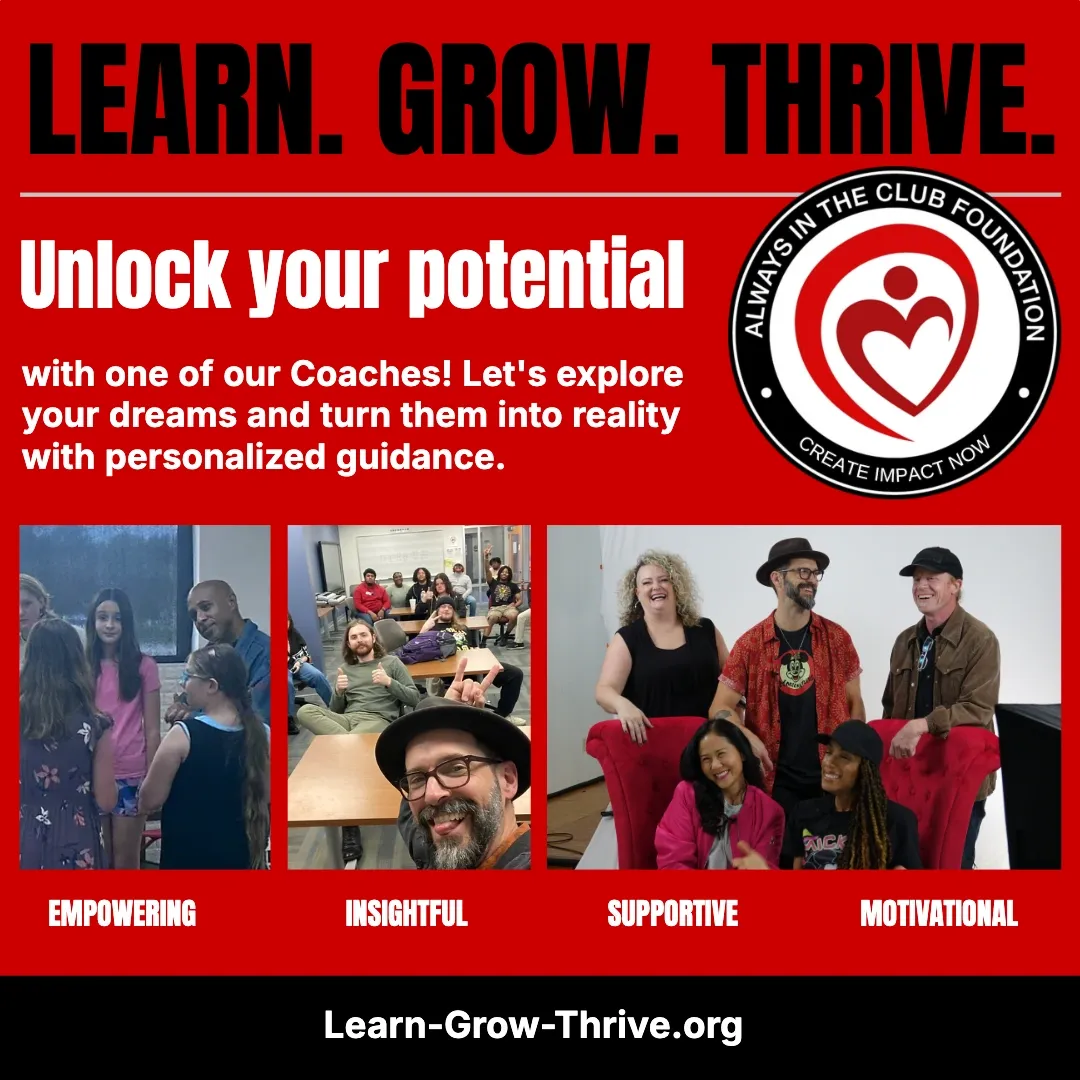
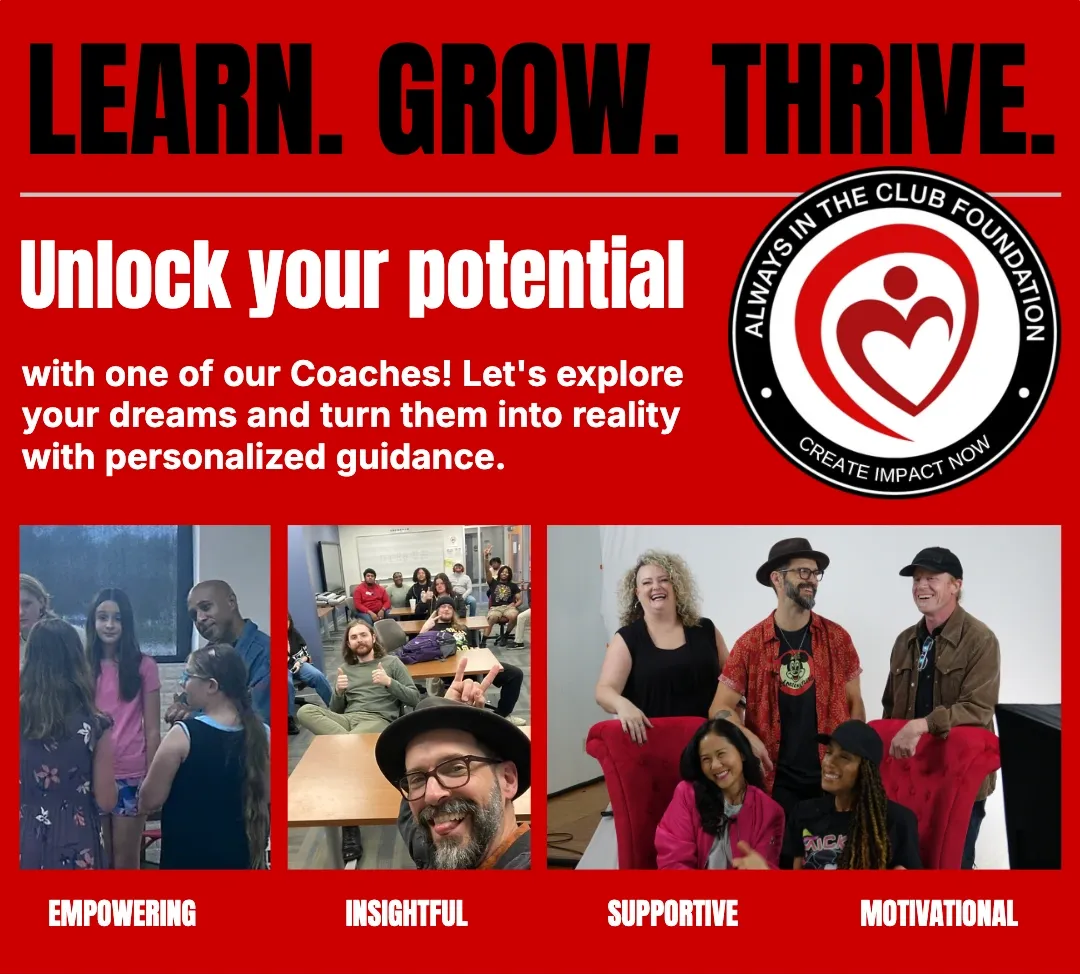
Our Why: crop the URL bar off the paired Mentorship graphics
Crop Red-mentorship.png and Mentors-red.png from 1080x1080 to
1080x974, removing the bottom band that carried the
Learn-Grow-Thrive.org URL (a black bar on one, white-on-red text on
the other). Retitle the frame component PairImage and match its
aspect ratio to the cropped images so they display uncropped.

diff --git a/src/app/our-why/page.tsx b/src/app/our-why/page.tsx
@@ -167,10 +167,10 @@ function SectionImage({
   );
 }
 
-/** A square (1:1) image frame, for the square brand graphics. */
-function SquareImage({ src, alt }: { src: string; alt: string }) {
+/** A 2-up image frame for the paired brand graphics (cropped 1080x974). */
+function PairImage({ src, alt }: { src: string; alt: string }) {
   return (
-    <div className="relative aspect-square w-full overflow-hidden rounded-2xl shadow-soft-sm ring-1 ring-ink/[0.04]">
+    <div className="relative aspect-[1080/974] w-full overflow-hidden rounded-2xl shadow-soft-sm ring-1 ring-ink/[0.04]">
       <Image
         src={src}
         alt={alt}
@@ -283,11 +283,11 @@ export default function OurWhyPage() {
         <div className="mx-auto max-w-5xl px-5 sm:px-8">
           <Reveal>
             <div className="grid gap-5 sm:grid-cols-2">
-              <SquareImage
+              <PairImage
                 src="/images/Red-mentorship.png"
                 alt="Always In The Club Foundation mentorship"
               />
-              <SquareImage
+              <PairImage
                 src="/images/Mentors-red.png"
                 alt="Mentors at the Always In The Club Foundation"
               />
